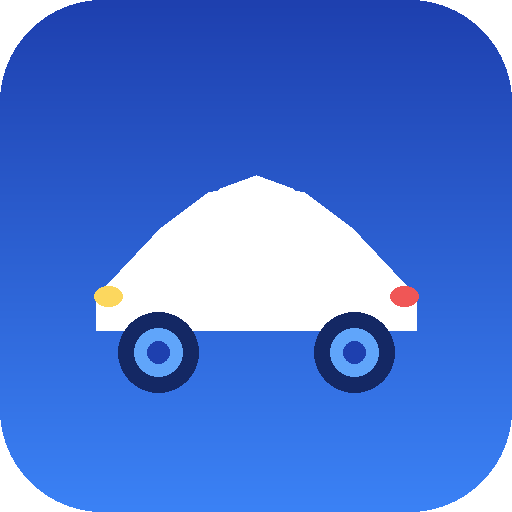
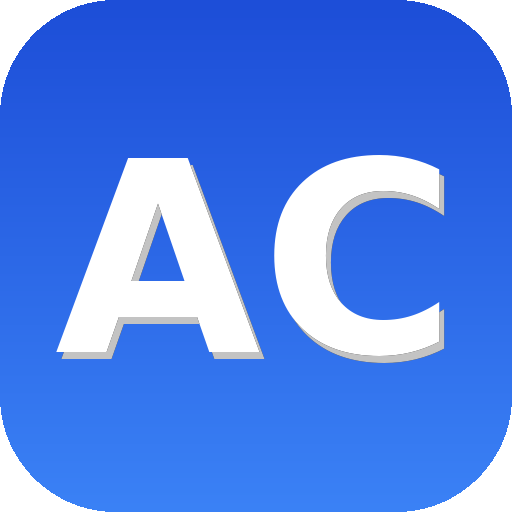
Add files via upload

diff --git a/app.html b/app.html
@@ -977,16 +977,18 @@ function resetState(){
 }
 
 async function doLogin(){
-  const email=g('le').value.trim(),pass=g('lp').value;
+  const email=g('le').value.trim().toLowerCase(),pass=g('lp').value;
   if(!email||!pass)return toast('Remplissez tous les champs.','e');
+  if(!/^[^\s@]+@[^\s@]+\.[^\s@]+$/.test(email))return toast('Email invalide.','e');
   const btn=g('btn-login');btn.disabled=true;btn.textContent='Connexion…';
   const{error}=await sb.auth.signInWithPassword({email,password:pass});
   btn.disabled=false;btn.textContent='Se connecter';
   if(error)toast(error.message==='Invalid login credentials'?'Email ou mot de passe incorrect.':error.message,'e');
 }
 async function doReg(){
-  const name=g('rn').value.trim(),email=g('re').value.trim(),pass=g('rp').value;
+  const name=g('rn').value.trim().slice(0,50),email=g('re').value.trim().toLowerCase(),pass=g('rp').value;
   if(!name||!email||!pass)return toast('Remplissez tous les champs.','e');
+  if(!/^[^\s@]+@[^\s@]+\.[^\s@]+$/.test(email))return toast('Email invalide.','e');
   if(pass.length<8)return toast('Mot de passe : 8 caractères minimum.','e');
   if(!g('cgu-check').checked)return toast('Veuillez accepter les CGU pour continuer.','e');
   const btn=g('btn-reg');btn.disabled=true;btn.textContent='Création…';
@@ -1223,7 +1225,7 @@ async function saveEnt(){
   if(!id) p.id=crypto.randomUUID();
   // Alerte si km entretien < km actuel du véhicule
   if(km){const vv=S.vehicles.find(x=>x.id===vehicle_id);if(vv&&vv.km_actuel&&km<vv.km_actuel){if(!confirm(`⚠️ Le kilométrage saisi (${km.toLocaleString('fr')} km) est inférieur au kilométrage actuel du véhicule (${vv.km_actuel.toLocaleString('fr')} km). Continuer ?`))return;}}
-  const{error}=id?await sb.from('entretiens').update(p).eq('id',id):await sb.from('entretiens').insert(p);
+  const{error}=id?await sb.from('entretiens').update(p).eq('id',id).eq('user_id',S.user.id):await sb.from('entretiens').insert(p);
   if(error)return toast('Erreur : '+error.message,'e');
   if(km){const v=S.vehicles.find(x=>x.id===vehicle_id);if(v&&km>(v.km_actuel||0))await sb.from('vehicles').update({km_actuel:km}).eq('id',vehicle_id);}
   toast(id?'Entretien mis à jour !':'Entretien enregistré !','s');
@@ -1233,7 +1235,7 @@ async function saveEnt(){
 async function delEnt(){
   const id=g('e-id').value;if(!id)return;
   cfm('Supprimer cet entretien ?','Action irréversible.',async()=>{
-    const{error}=await sb.from('entretiens').delete().eq('id',id);
+    const{error}=await sb.from('entretiens').delete().eq('id',id).eq('user_id',S.user.id);
     if(error)return toast('Erreur : '+error.message,'e');
     toast('Entretien supprimé.','i');cm('ent');await loadEnts();renderView();
   });
@@ -1245,6 +1247,9 @@ async function sendInv(){
   if(!vid)return toast('Sélectionnez un véhicule.','e');
   if(!email)return toast('Email requis.','e');
   if(email===S.user.email)return toast('Vous ne pouvez pas vous inviter.','e');
+  // Vérifier doublon
+  const alreadyInvited=S.partages.find(p=>p.owner_id===S.user.id&&p.vehicle_id===vid&&p.invited_email===email&&p.status!=='rejected');
+  if(alreadyInvited)return toast('Une invitation existe déjà pour cet email.','e');
   const v=S.vehicles.find(x=>x.id===vid);
   const vname=v?(v.marque+' '+v.modele):'le véhicule';
   const appUrl=window.location.origin+'/app.html';
@@ -1278,12 +1283,20 @@ async function sendInv(){
 }
 
 async function acceptInv(pid){
-  const{error}=await sb.from('partages').update({status:'accepted',invited_user_id:S.user.id}).eq('id',pid);
+  // Vérifier que c'est bien notre invitation (invited_email correspond)
+  const inv=S.pending.find(x=>x.id===pid);
+  if(!inv)return toast('Invitation introuvable.','e');
+  const{error}=await sb.from('partages').update({status:'accepted',invited_user_id:S.user.id}).eq('id',pid).eq('invited_email',S.user.email);
   if(error)return toast('Erreur : '+error.message,'e');
   toast('Invitation acceptée ! Le véhicule est maintenant visible.','s');
   await loadAll();renderView();
 }
-async function rejectInv(pid){await sb.from('partages').update({status:'rejected'}).eq('id',pid);toast('Refusée.','i');await loadPartages();renderView();}
+async function rejectInv(pid){
+  const inv=S.pending.find(x=>x.id===pid);
+  if(!inv)return toast('Invitation introuvable.','e');
+  await sb.from('partages').update({status:'rejected'}).eq('id',pid).eq('invited_email',S.user.email);
+  toast('Refusée.','i');await loadPartages();renderView();
+}
 async function quitPartage(pid){
   cfm('Quitter ce partage ?','Vous n\'aurez plus accès à ce véhicule.',async()=>{
     await sb.from('partages').delete().eq('id',pid);
@@ -1774,7 +1787,7 @@ async function saveRappelCustom(){
     statut:'actif'
   };
   if(!id)p.id=crypto.randomUUID();
-  const{error}=id?await sb.from('rappels_custom').update(p).eq('id',id):await sb.from('rappels_custom').insert(p);
+  const{error}=id?await sb.from('rappels_custom').update(p).eq('id',id).eq('user_id',S.user.id):await sb.from('rappels_custom').insert(p);
   if(error)return toast('Erreur : '+error.message,'e');
   toast(id?'Rappel mis à jour !':'Rappel créé !','s');
   cm('rcus');await loadRappelsCustom();renderView();
@@ -1782,7 +1795,7 @@ async function saveRappelCustom(){
 async function delRappelCustom(){
   const id=g('rcus-id').value;if(!id)return;
   cfm('Supprimer ce rappel ?','Action irréversible.',async()=>{
-    await sb.from('rappels_custom').delete().eq('id',id);
+    await sb.from('rappels_custom').delete().eq('id',id).eq('user_id',S.user.id);
     toast('Rappel supprimé.','i');cm('rcus');await loadRappelsCustom();renderView();
   });
 }
@@ -1882,6 +1895,7 @@ async function saveDocument(){
   const type=g('doc-type').value;
   if(!vid)return toast('Sélectionnez un véhicule.','e');
   if(!type)return toast('Sélectionnez un type.','e');
+  if(!S.vehicles.find(x=>x.id===vid&&x.user_id===S.user.id))return toast('Véhicule non autorisé.','e');
   const id=g('doc-id').value;
   // Lire les champs dynamiques (peuvent ne pas exister selon le type)
   const getVal=id=>{const el=g(id);return el?el.value.trim()||null:null;};
@@ -1896,7 +1910,7 @@ async function saveDocument(){
     note:g('doc-note').value.trim()||null
   };
   if(!id)p.id=crypto.randomUUID();
-  const{error}=id?await sb.from('documents').update(p).eq('id',id):await sb.from('documents').insert(p);
+  const{error}=id?await sb.from('documents').update(p).eq('id',id).eq('user_id',S.user.id):await sb.from('documents').insert(p);
   if(error)return toast('Erreur : '+error.message,'e');
   toast(id?'Document mis à jour !':'Document ajouté !','s');
   cm('doc');await loadDocuments();renderView();
@@ -1904,7 +1918,7 @@ async function saveDocument(){
 async function delDocument(){
   const id=g('doc-id').value;if(!id)return;
   cfm('Supprimer ce document ?','Action irréversible.',async()=>{
-    await sb.from('documents').delete().eq('id',id);
+    await sb.from('documents').delete().eq('id',id).eq('user_id',S.user.id);
     toast('Document supprimé.','i');cm('doc');await loadDocuments();renderView();
   });
 }